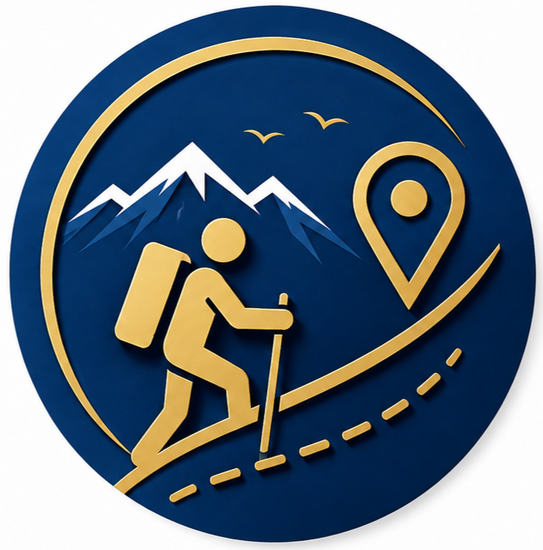
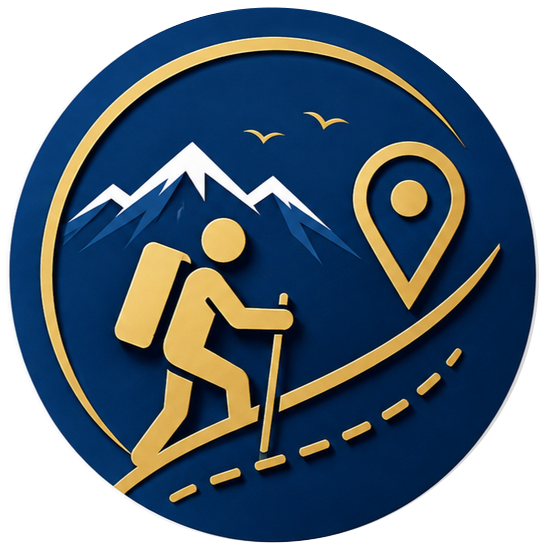
fix: Convert round GoNomadik emblem into 100% transparent circular PNG removing all white square canvas pixels

diff --git a/src/components/site/GoNomadikLoadingScreen.tsx b/src/components/site/GoNomadikLoadingScreen.tsx
@@ -115,7 +115,7 @@ export function GoNomadikLoadingScreen({
           <img
             src="/images/gonomadik-round-emblem.png"
             alt="GoNomadik Emblem"
-            className="h-20 sm:h-28 w-auto object-cover rounded-full shadow-lg ring-4 ring-[#C8A96A]/20 pointer-events-none"
+            className="h-20 sm:h-28 w-auto aspect-square object-contain pointer-events-none drop-shadow-md bg-transparent"
           />
         </motion.div>
 
